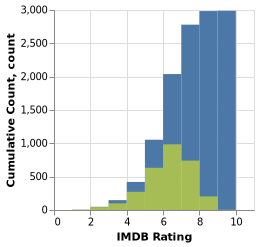
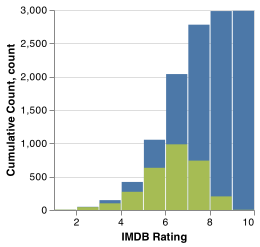
fix: Init the better orient for the ranged bar (#8475)
* Add example for ranged bar with not binned position channels

* Change the init logic to assgin better orient for ranged bar

diff --git a/test/compile/mark/bar.test.ts b/test/compile/mark/bar.test.ts
@@ -43,9 +43,9 @@ describe('Mark: Bar', () => {
     expect(props.height).toBeUndefined();
   });
 
-  it('should draw vertical bar, with y from zero to field value and bar with quantitative x, x2, and y', () => {
-    const x: PositionFieldDef<string> = {field: 'bin_start', type: 'quantitative'};
-    const x2: SecondaryFieldDef<string> = {field: 'bin_end'};
+  it('should draw horizontal bar, with y from zero to field value and bar with quantitative x, x2, and y', () => {
+    const x: PositionFieldDef<string> = {field: 'q_start', type: 'quantitative'};
+    const x2: SecondaryFieldDef<string> = {field: 'q_end'};
     const model = parseUnitModelWithScaleAndLayoutSize({
       data: {url: 'data/cars.json'},
       mark: 'bar',
@@ -56,11 +56,30 @@ describe('Mark: Bar', () => {
       }
     });
     const props = bar.encodeEntry(model);
-    expect(props.x).toEqual({scale: 'x', field: 'bin_start'});
-    expect(props.x2).toEqual({scale: 'x', field: 'bin_end'});
-    expect(props.y).toEqual({scale: 'y', field: 'Acceleration'});
+    expect(props.x).toEqual({scale: 'x', field: 'q_start'});
+    expect(props.x2).toEqual({scale: 'x', field: 'q_end'});
+    expect(props.yc).toEqual({scale: 'y', field: 'Acceleration'});
+    expect(props.y).toBeUndefined();
+    expect(props.height).toEqual({value: defaultBarConfig.continuousBandSize});
+  });
+
+  it('should draw vertical bar, with y from zero to field value and bar with binned x, x2, and y', () => {
+    const x: PositionFieldDef<string> = {field: 'bin_start', type: 'quantitative', bin: 'binned'};
+    const x2: SecondaryFieldDef<string> = {field: 'bin_end'};
+    const model = parseUnitModelWithScaleAndLayoutSize({
+      data: {url: 'data/cars.json'},
+      mark: 'bar',
+      encoding: {
+        x,
+        x2,
+        y: {type: 'quantitative', field: 'Acceleration', aggregate: 'mean'}
+      }
+    });
+    const props = bar.encodeEntry(model);
+    expect(props.x).toEqual({scale: 'x', field: 'bin_end'});
+    expect(props.x2).toEqual({scale: 'x', field: 'bin_start', offset: 1});
+    expect(props.y).toEqual({scale: 'y', field: 'mean_Acceleration'});
     expect(props.y2).toEqual({scale: 'y', value: 0});
-    expect(props.height).toBeUndefined();
   });
 
   it('should draw vertical bar, with y from zero to field value and with band value for x/width when domain that includes zero is specified', () => {
@@ -181,9 +200,28 @@ describe('Mark: Bar', () => {
     });
   });
 
-  it('should draw horizontal bar, with y from zero to field value and bar with quantitative x, x2, and y', () => {
-    const y: PositionFieldDef<string> = {field: 'bin_start', type: 'quantitative'};
+  it('should draw vertical bar, with y from zero to field value and bar with binned y, y2, and x', () => {
+    const y: PositionFieldDef<string> = {field: 'bin_start', type: 'quantitative', bin: 'binned'};
     const y2: SecondaryFieldDef<string> = {field: 'bin_end'};
+    const model = parseUnitModelWithScaleAndLayoutSize({
+      data: {url: 'data/cars.json'},
+      mark: 'bar',
+      encoding: {
+        y,
+        y2,
+        x: {type: 'quantitative', field: 'Acceleration', aggregate: 'mean'}
+      }
+    });
+    const props = bar.encodeEntry(model);
+    expect(props.y).toEqual({scale: 'y', field: 'bin_end', offset: 1});
+    expect(props.y2).toEqual({scale: 'y', field: 'bin_start'});
+    expect(props.x).toEqual({scale: 'x', field: 'mean_Acceleration'});
+    expect(props.x2).toEqual({scale: 'x', value: 0});
+  });
+
+  it('should draw horizontal bar, with y from zero to field value and bar with quantitative y, y2, and x', () => {
+    const y: PositionFieldDef<string> = {field: 'q_start', type: 'quantitative'};
+    const y2: SecondaryFieldDef<string> = {field: 'q_end'};
     const model = parseUnitModelWithScaleAndLayoutSize({
       data: {url: 'data/cars.json'},
       mark: 'bar',
@@ -194,11 +232,11 @@ describe('Mark: Bar', () => {
       }
     });
     const props = bar.encodeEntry(model);
-    expect(props.y).toEqual({scale: 'y', field: 'bin_start'});
-    expect(props.y2).toEqual({scale: 'y', field: 'bin_end'});
-    expect(props.x).toEqual({scale: 'x', field: 'Acceleration'});
-    expect(props.x2).toEqual({scale: 'x', value: 0});
-    expect(props.height).toBeUndefined();
+    expect(props.y).toEqual({scale: 'y', field: 'q_start'});
+    expect(props.y2).toEqual({scale: 'y', field: 'q_end'});
+    expect(props.xc).toEqual({scale: 'x', field: 'Acceleration'});
+    expect(props.x).toBeUndefined();
+    expect(props.width).toEqual({value: defaultBarConfig.continuousBandSize});
   });
 
   describe('simple horizontal with point scale', () => {

diff --git a/test/compile/mark/init.test.ts b/test/compile/mark/init.test.ts
@@ -383,6 +383,46 @@ describe('compile/mark/init', () => {
       expect(model.markDef.orient).toBe('horizontal');
     });
 
+    it('should return correct orient for bar with horizontal un-binned data', () => {
+      const model = parseUnitModelWithScaleAndLayoutSize({
+        mark: 'bar',
+        encoding: {
+          x: {
+            field: 'q_start',
+            type: 'quantitative'
+          },
+          x2: {
+            field: 'q_end'
+          },
+          y: {
+            field: 'count',
+            type: 'quantitative'
+          }
+        }
+      });
+      expect(model.markDef.orient).toBe('horizontal');
+    });
+
+    it('should return correct orient for bar with vertical un-binned data', () => {
+      const model = parseUnitModelWithScaleAndLayoutSize({
+        mark: 'bar',
+        encoding: {
+          y: {
+            field: 'q_start',
+            type: 'quantitative'
+          },
+          y2: {
+            field: 'q_end'
+          },
+          x: {
+            field: 'count',
+            type: 'quantitative'
+          }
+        }
+      });
+      expect(model.markDef.orient).toBe('vertical');
+    });
+
     it('should return correct orient for area with vertical binned data', () => {
       const model = parseUnitModelWithScaleAndLayoutSize({
         mark: 'area',

diff --git a/src/compile/mark/init.ts b/src/compile/mark/init.ts
@@ -123,18 +123,24 @@ function orient(mark: Mark, encoding: Encoding<string>, specifiedOrient: Orienta
           return specifiedOrient;
         }
 
-        // If y is range and x is non-range, non-bin Q, y is likely a prebinned field
+        // If y is range and x is non-range, non-bin Q
         if (!x2) {
           if ((isFieldDef(x) && x.type === QUANTITATIVE && !isBinning(x.bin)) || isNumericDataDef(x)) {
-            return 'horizontal';
+            if (isFieldDef(y) && isBinned(y.bin)) {
+              return 'horizontal';
+            }
           }
+          return 'vertical';
         }
 
-        // If x is range and y is non-range, non-bin Q, x is likely a prebinned field
+        // If x is range and y is non-range, non-bin Q
         if (!y2) {
           if ((isFieldDef(y) && y.type === QUANTITATIVE && !isBinning(y.bin)) || isNumericDataDef(y)) {
-            return 'vertical';
+            if (isFieldDef(x) && isBinned(x.bin)) {
+              return 'vertical';
+            }
           }
+          return 'horizontal';
         }
       }
 
